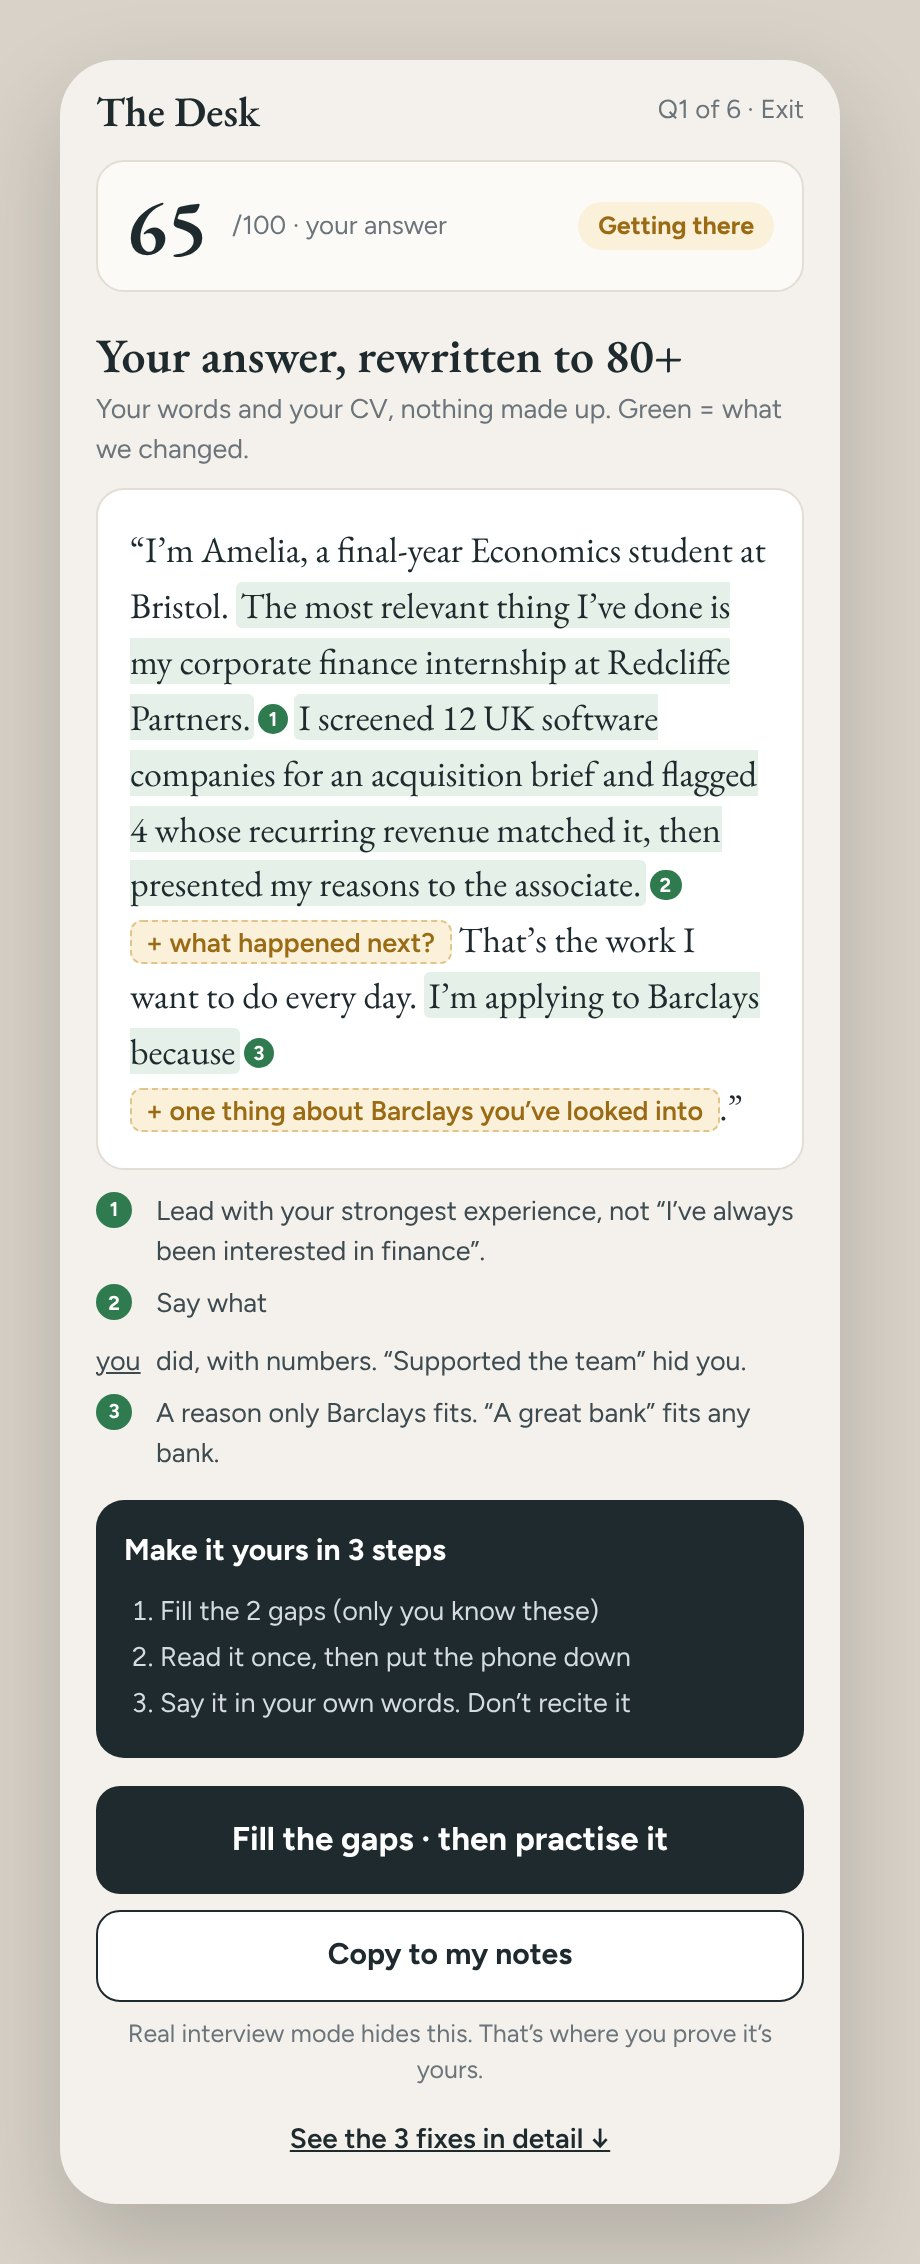
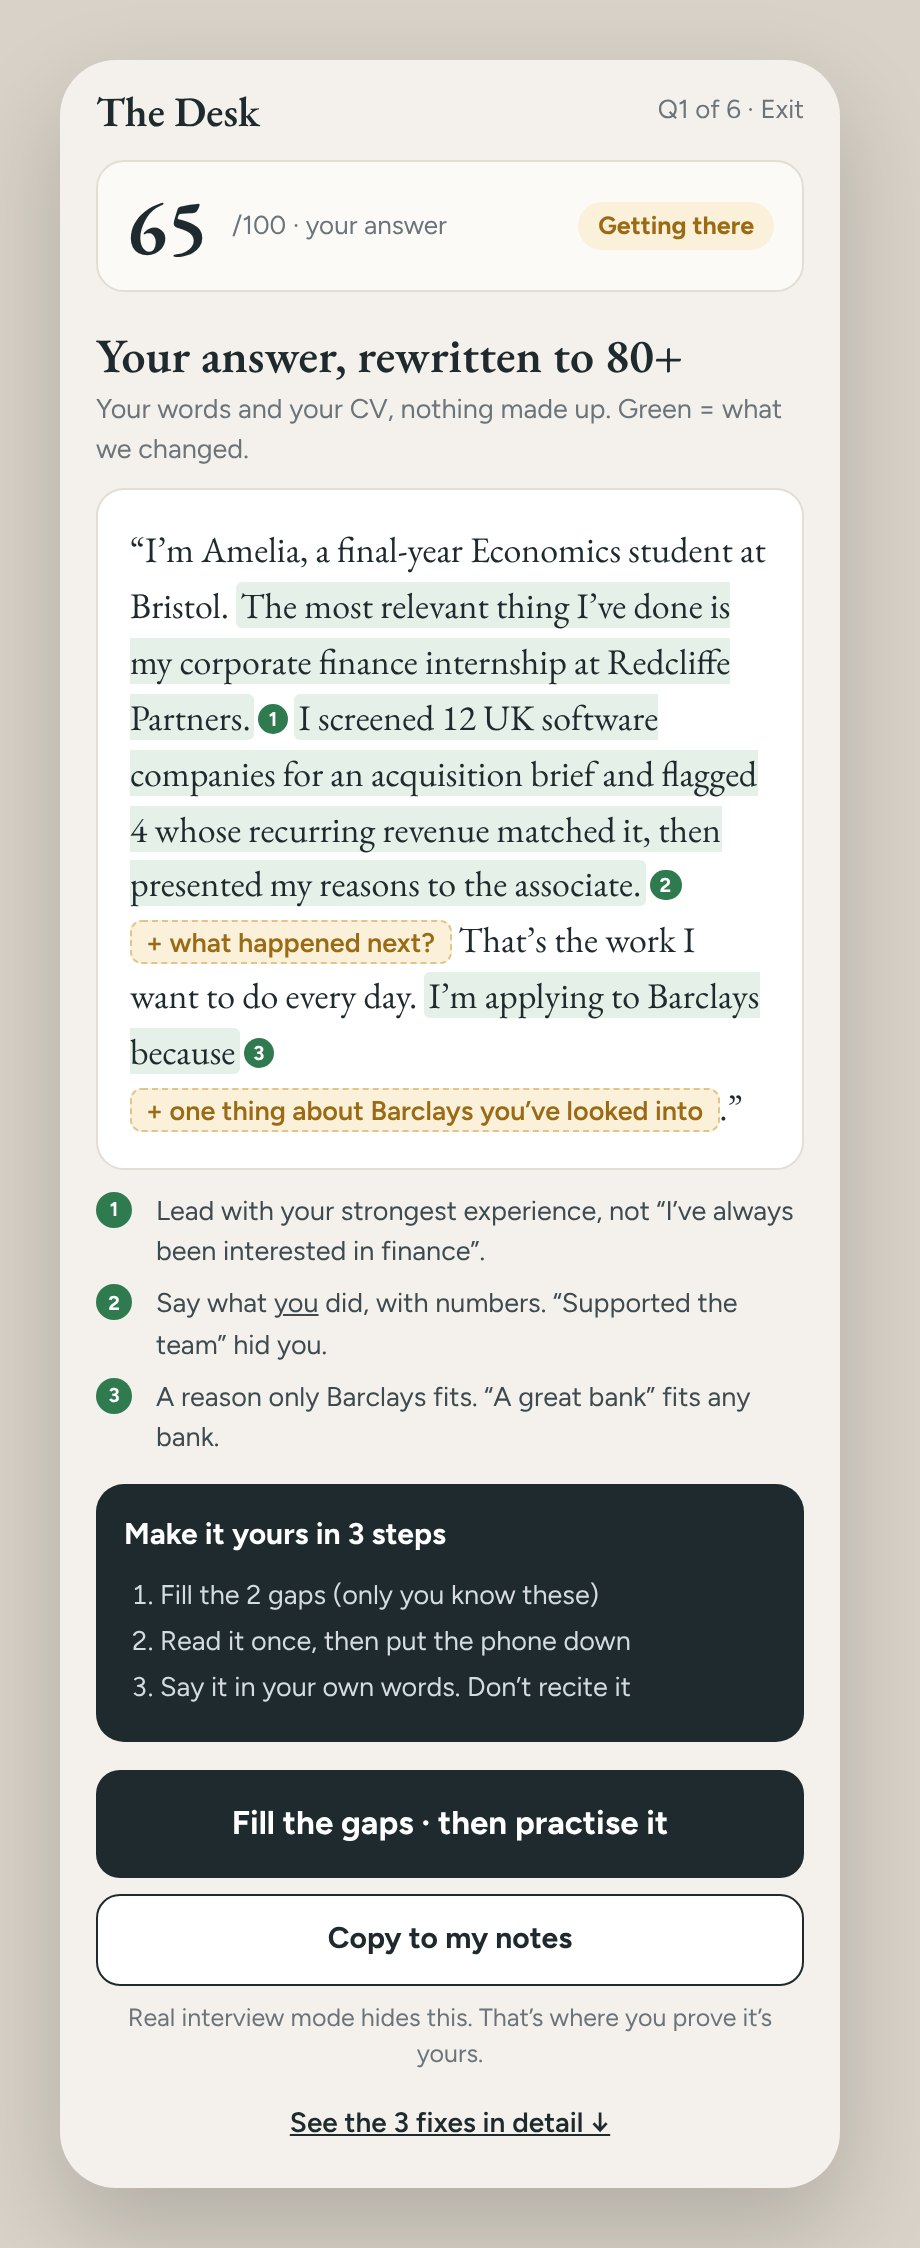
Fix note layout in rewrite mock
Claude-Session: https://claude.ai/code/session_014HX912Q8GYBLs9Jx181D89

diff --git a/design/interview-rewrite-mock.html b/design/interview-rewrite-mock.html
@@ -33,9 +33,9 @@ h2.s{font-size:24px;line-height:1.15;margin:18px 0 2px}
     <p class="sub">Your words and your CV, nothing made up. Green = what we changed.</p>
     <div class="ans">“I’m Amelia, a final-year Economics student at Bristol. <span class="n">The most relevant thing I’ve done is my corporate finance internship at Redcliffe Partners.</span><sup>1</sup> <span class="n">I screened 12 UK software companies for an acquisition brief and flagged 4 whose recurring revenue matched it, then presented my reasons to the associate.</span><sup>2</sup> <span class="gap">+ what happened next?</span> That’s the work I want to do every day. <span class="n">I’m applying to Barclays because</span><sup>3</sup> <span class="gap">+ one thing about Barclays you’ve looked into</span>.”</div>
     <div class="why">
-      <div><i>1</i>Lead with your strongest experience, not “I’ve always been interested in finance”.</div>
-      <div><i>2</i>Say what <u>you</u> did, with numbers. “Supported the team” hid you.</div>
-      <div><i>3</i>A reason only Barclays fits. “A great bank” fits any bank.</div>
+      <div><i>1</i><span>Lead with your strongest experience, not “I’ve always been interested in finance”.</span></div>
+      <div><i>2</i><span>Say what <u>you</u> did, with numbers. “Supported the team” hid you.</span></div>
+      <div><i>3</i><span>A reason only Barclays fits. “A great bank” fits any bank.</span></div>
     </div>
 
     <div class="yours"><b>Make it yours in 3 steps</b><ol><li>Fill the 2 gaps (only you know these)</li><li>Read it once, then put the phone down</li><li>Say it in your own words. Don’t recite it</li></ol></div>
